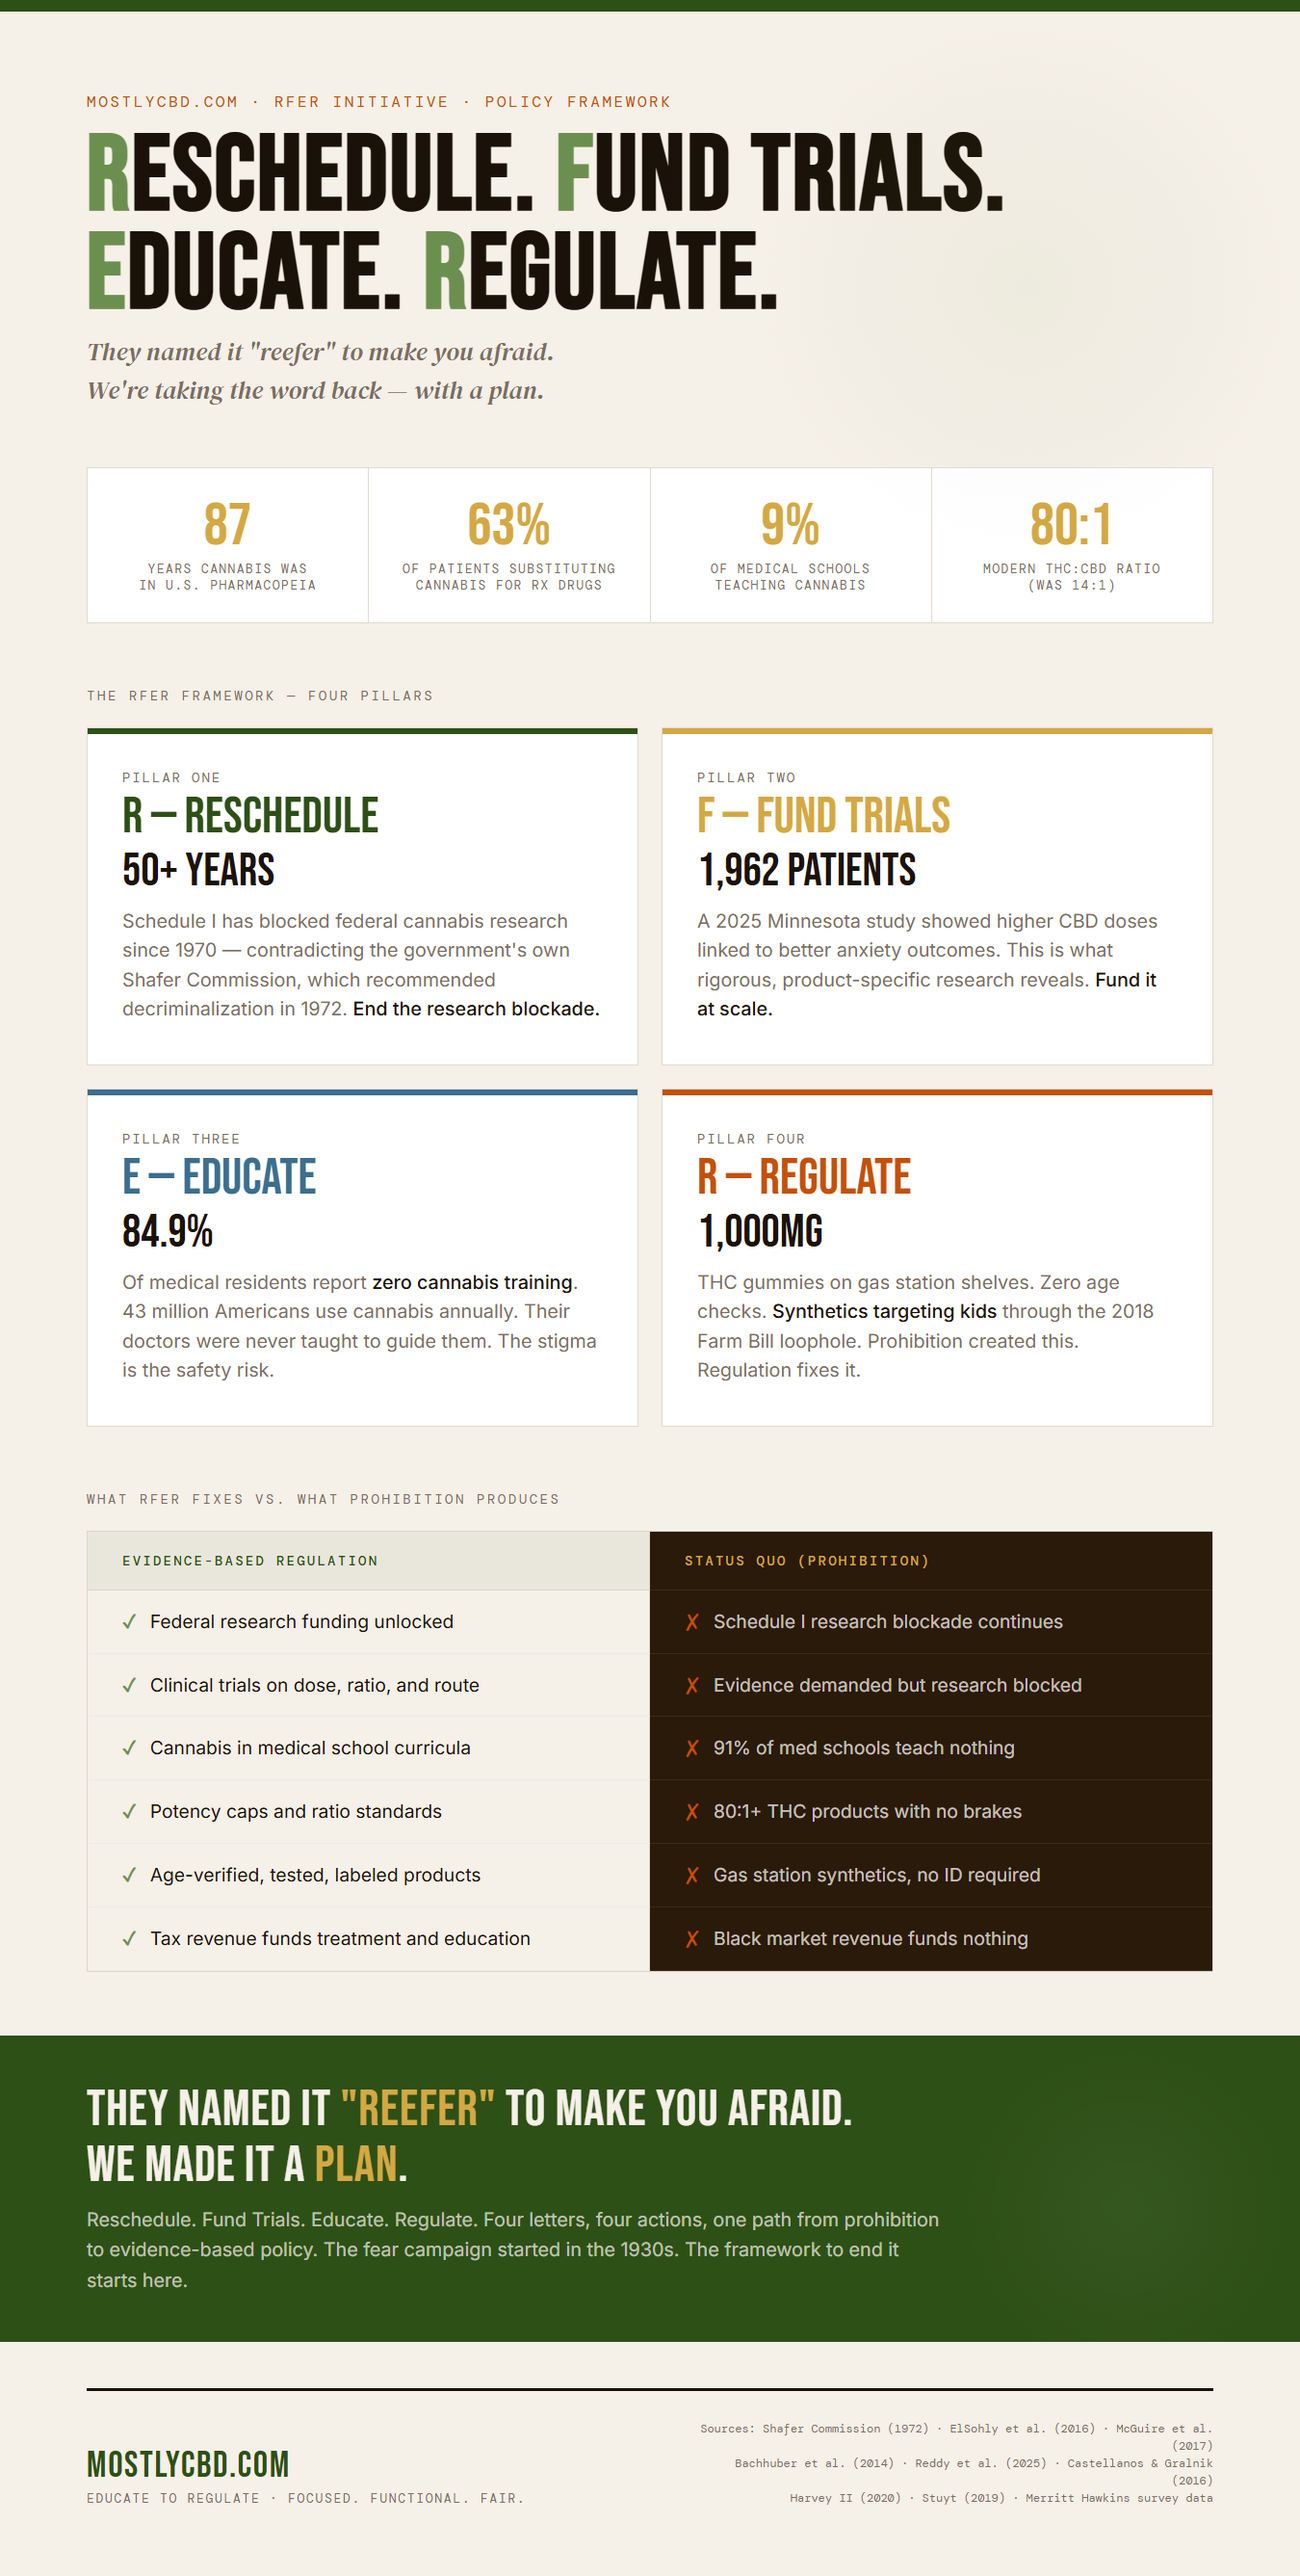
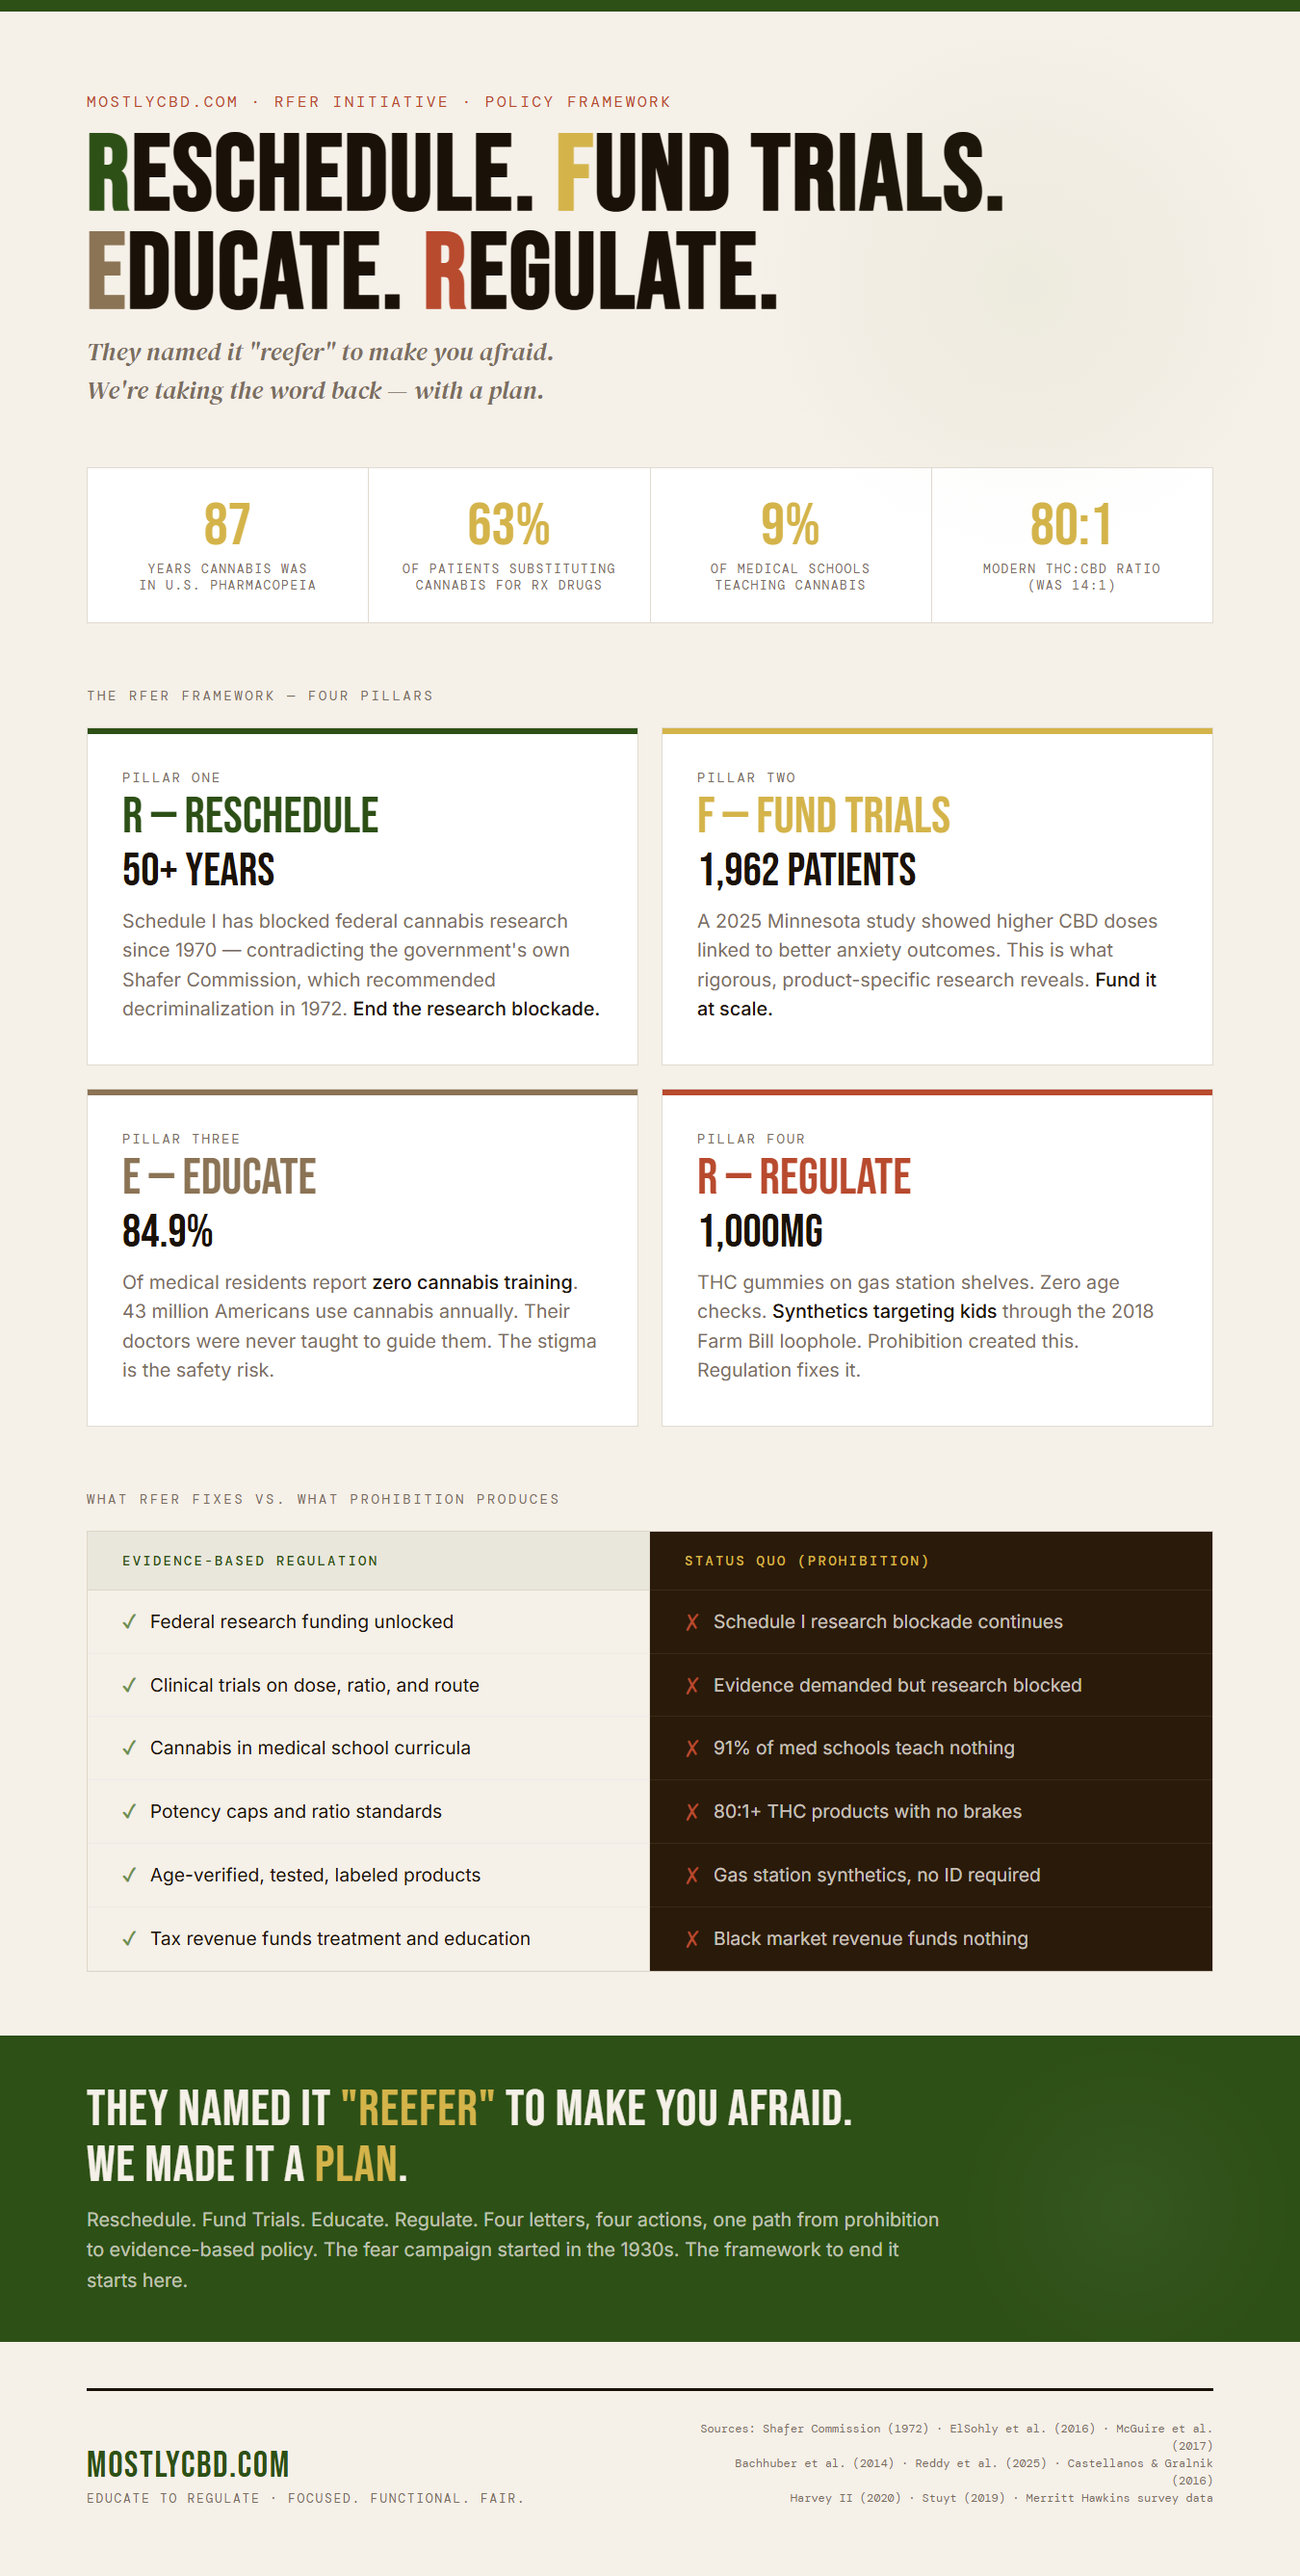
rfer

diff --git a/rfer.html b/rfer.html
@@ -192,10 +192,11 @@
       line-height: 1.65;
     }
 
-    .rfer-line .letter {
-      color: #A3B18A;
-      font-weight: 700;
-    }
+    .rfer-line .letter { font-weight: 700; }
+    .rfer-line:nth-child(1) .letter { color: #7CB668; }
+    .rfer-line:nth-child(2) .letter { color: #E0C45C; }
+    .rfer-line:nth-child(3) .letter { color: #B89870; }
+    .rfer-line:nth-child(4) .letter { color: #D07050; }
 
     .rfer-line .period { color: rgba(244,241,235,0.3); }
 
@@ -240,10 +241,10 @@
       line-height: 1;
     }
 
-    .pillar-item:nth-child(1) .pillar-item__letter { color: #3B6E52; }
-    .pillar-item:nth-child(2) .pillar-item__letter { color: #C4A040; }
-    .pillar-item:nth-child(3) .pillar-item__letter { color: #3B6E8F; }
-    .pillar-item:nth-child(4) .pillar-item__letter { color: #C4692A; }
+    .pillar-item:nth-child(1) .pillar-item__letter { color: #2d5a27; }
+    .pillar-item:nth-child(2) .pillar-item__letter { color: #D4B44A; }
+    .pillar-item:nth-child(3) .pillar-item__letter { color: #8B7355; }
+    .pillar-item:nth-child(4) .pillar-item__letter { color: #b84a2e; }
 
     .pillar-item__body { color: #1C1B18; }
     .pillar-item__body strong { font-weight: 600; display: block; margin-bottom: 2px; }
